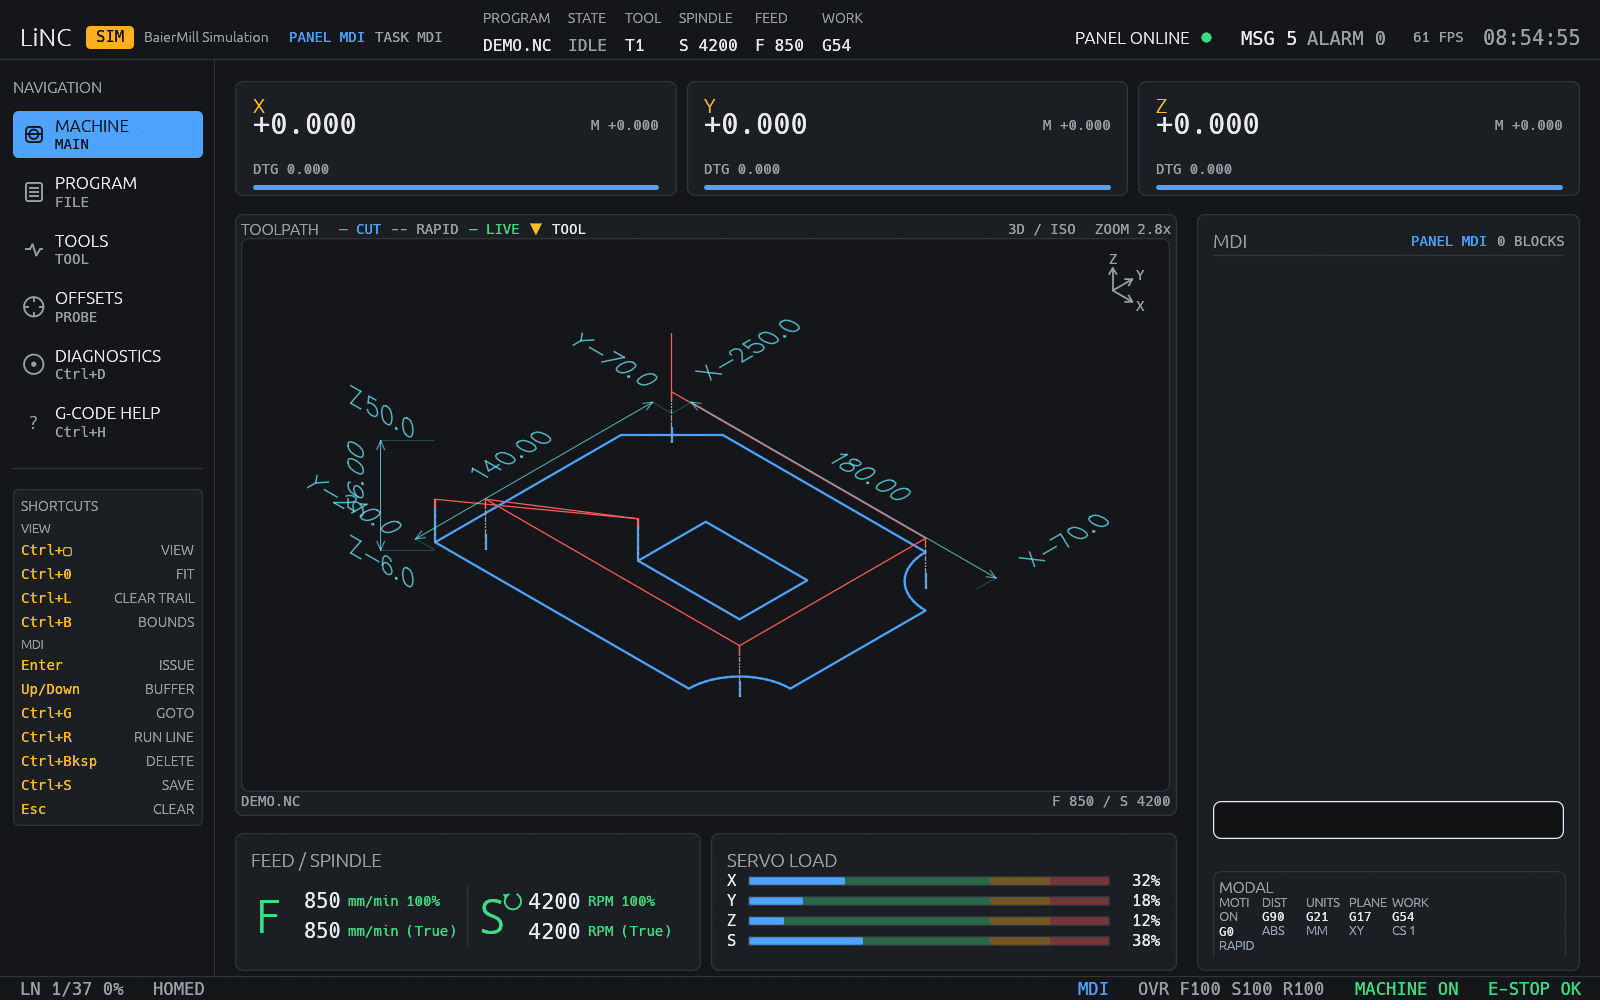
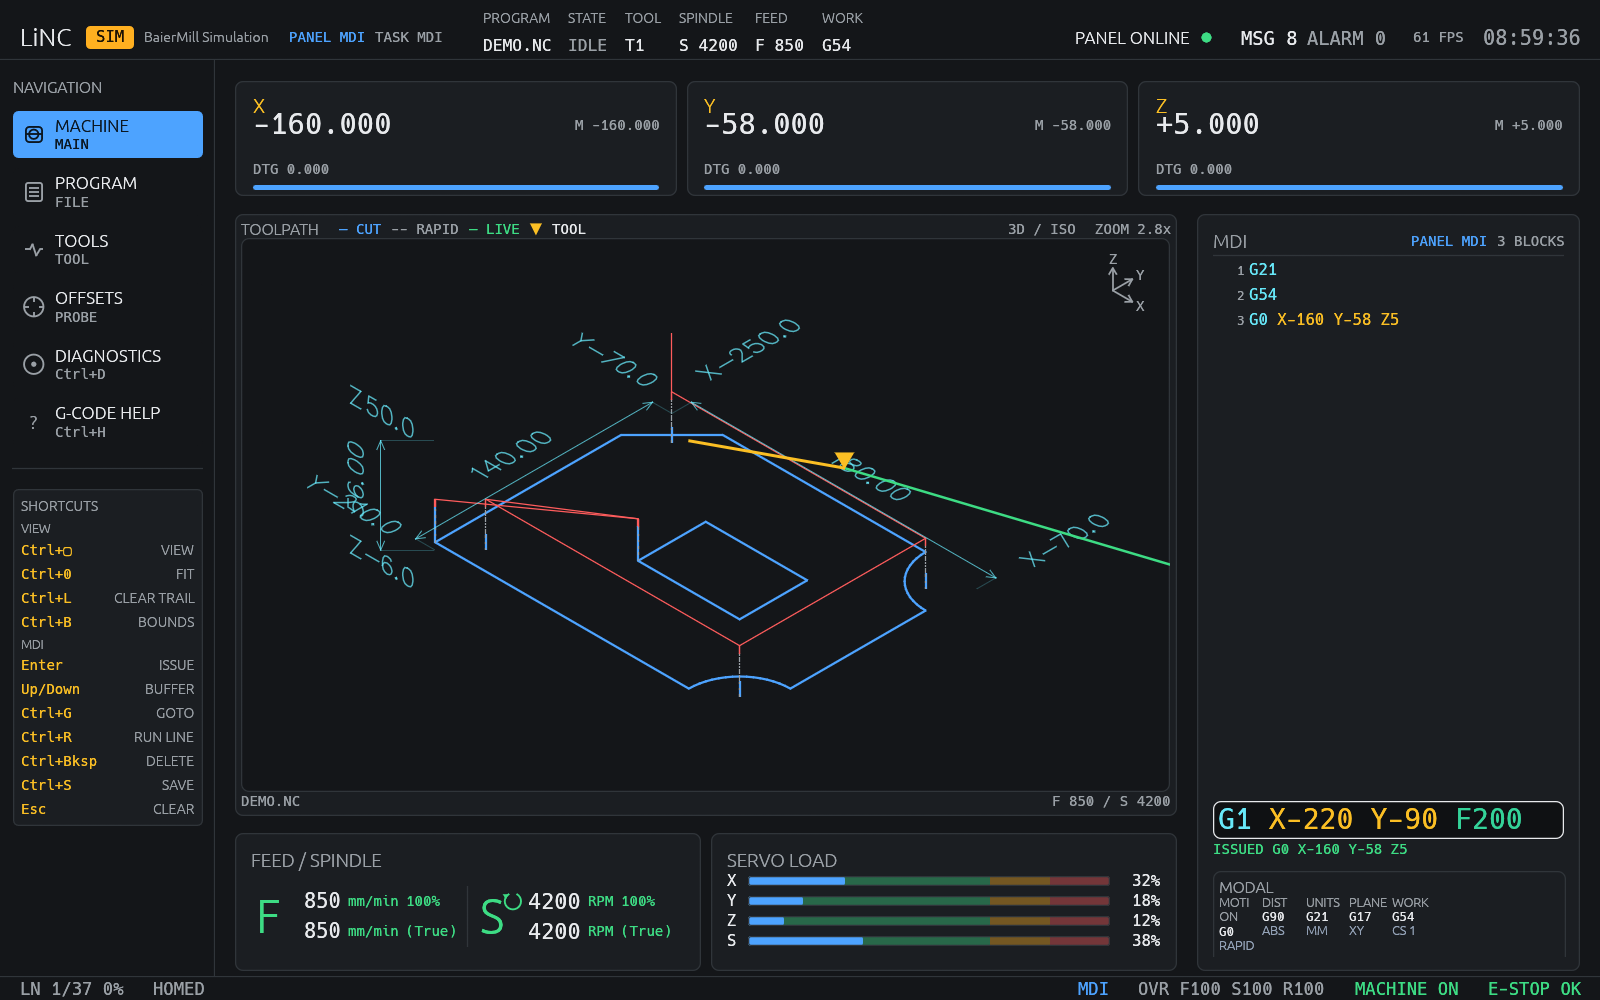
Show MDI history and a live block preview in the README capture
The MDI shot now carries three issued blocks (G21, G54, a rapid move)
and a fourth block being edited with its toolpath preview drawn on the
program, which is what the pane is for.

diff --git a/README.md b/README.md
@@ -29,7 +29,7 @@ Click any image for the full-size PNG.
 | **Touch Probe** | **Files** |
 | [![Touch probe: illustrated routines, parameters and results](docs/screenshots/probe.png)](docs/screenshots/probe.png) | [![Files: USB media beside NC_FILES](docs/screenshots/files.png)](docs/screenshots/files.png) |
 | **CNC Control Panel** (separate window) | **MDI** |
-| [![Simulator CNC control panel: power, E-stop, mode and override dials, status lamps and 7-segment displays](docs/screenshots/panel.png)](docs/screenshots/panel.png) | [![MDI pane on the Machine page, with the panel in MDI mode](docs/screenshots/mdi.png)](docs/screenshots/mdi.png) |
+| [![Simulator CNC control panel: power, E-stop, mode and override dials, status lamps and 7-segment displays](docs/screenshots/panel.png)](docs/screenshots/panel.png) | [![MDI pane: issued blocks, the block being edited and its toolpath preview](docs/screenshots/mdi.png)](docs/screenshots/mdi.png) |
 
 ## Accepted references
 
